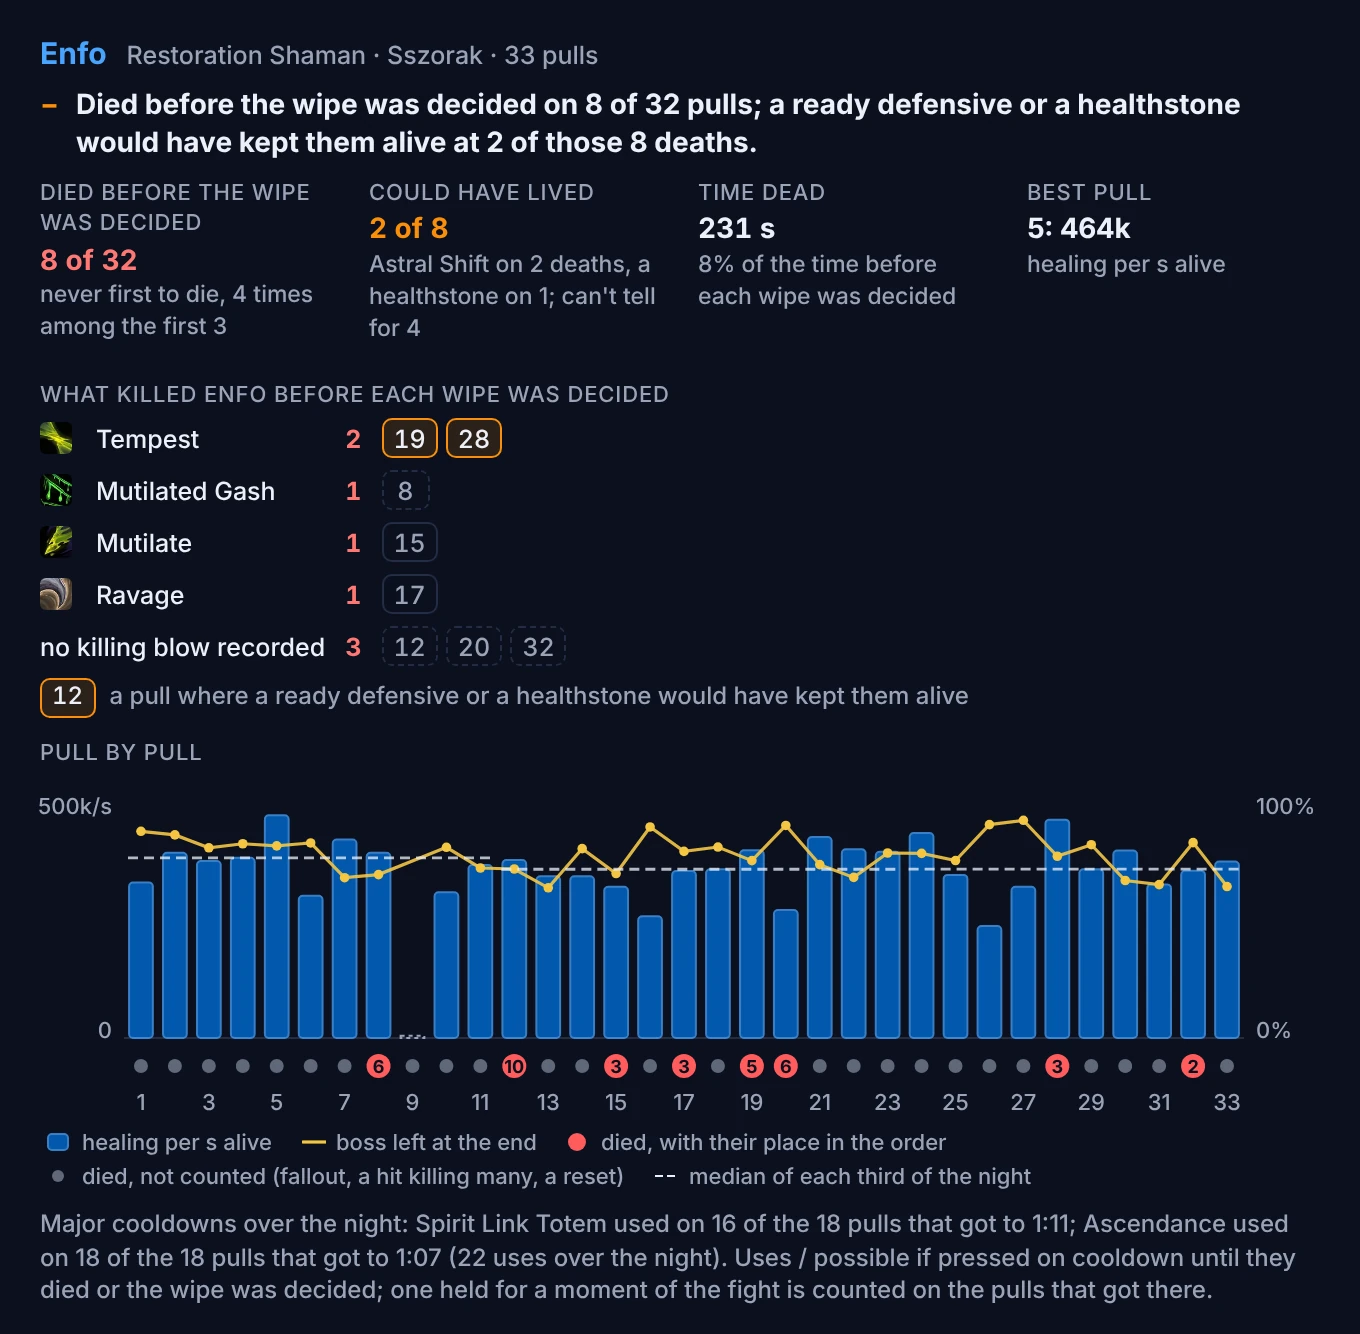
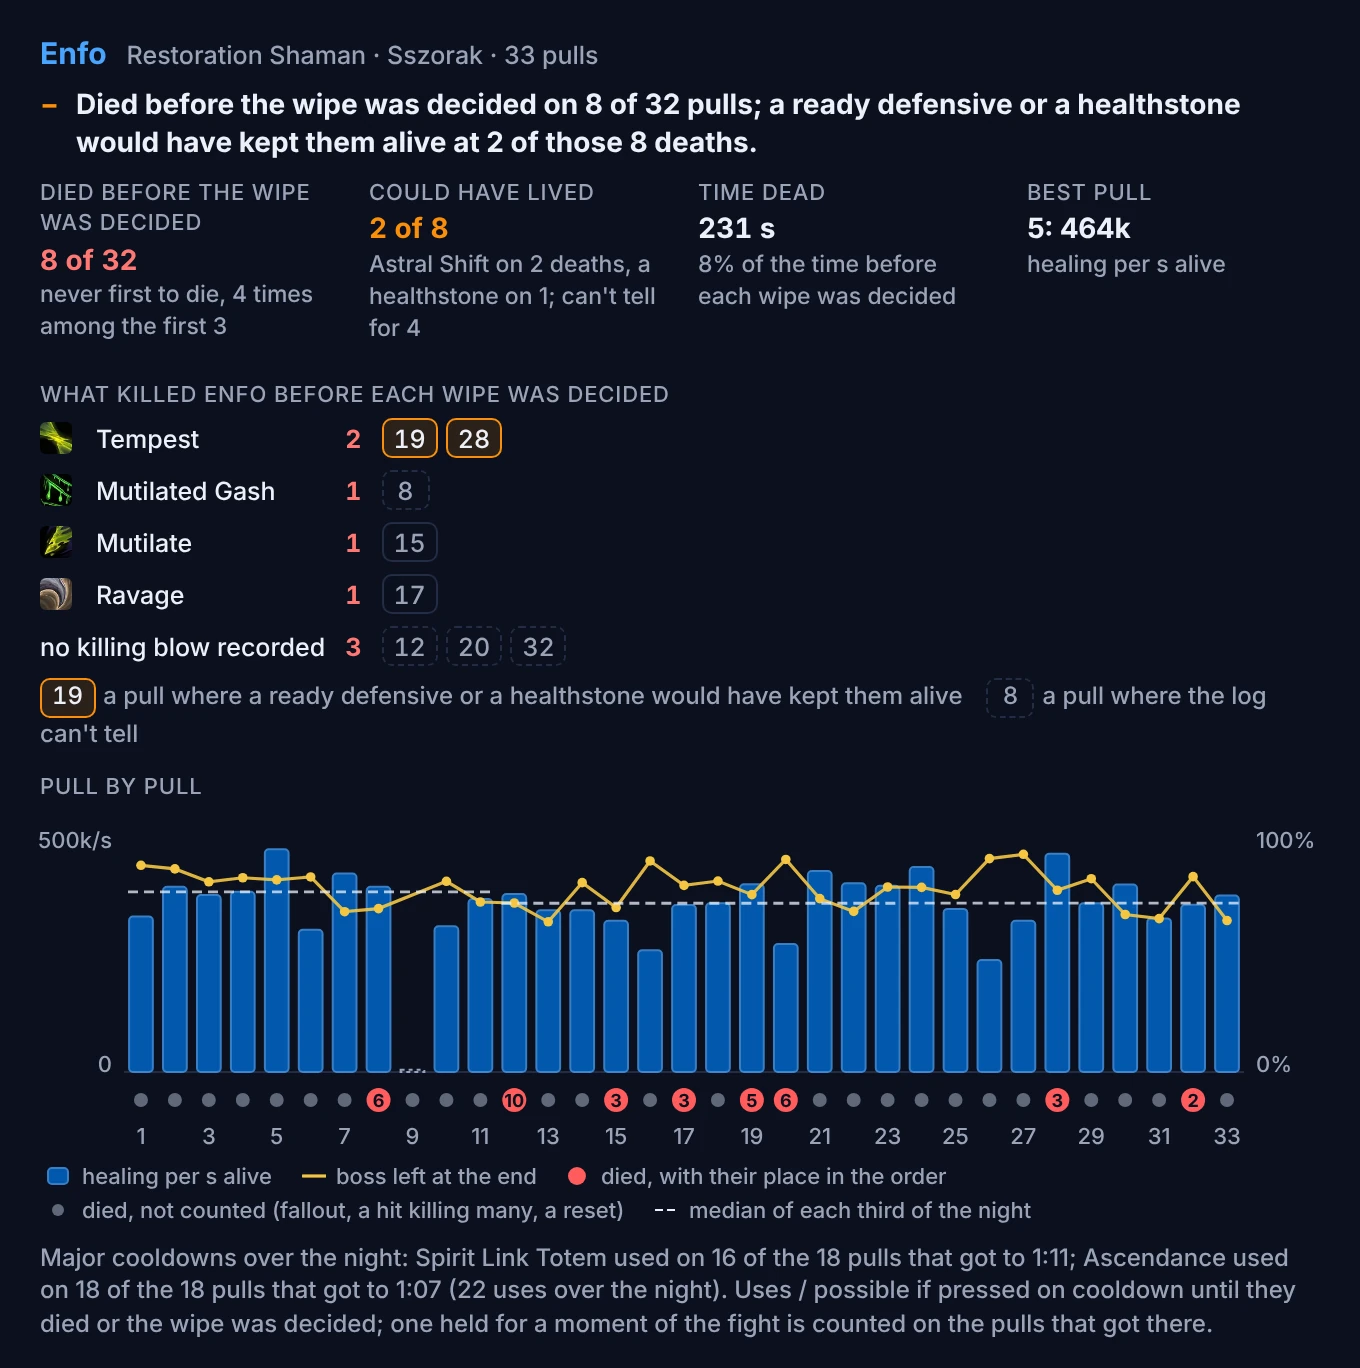
fix(agent): a player's night card reads each death as the answer does, and its key shows the night's own pulls
The card decided for itself whether something ready would have saved a replayed death, so one the answer
can't tell for (an immunity sure for a moment only) was drawn as one nothing would have stopped. Each chip now
takes player_night's own reading (coaching.night_lived), with why it can't tell in its tooltip. The key under
the chips showed a made-up "12" in the saved colour on every night: it now shows the first pull that is one,
of each kind the night has.

diff --git a/src/wipebot/core/app/night.js b/src/wipebot/core/app/night.js
@@ -31,26 +31,36 @@ views.player_night = (() => {
   }
 
   const KILLERS_SHOWN = 5;
-  // What killed them before each wipe was decided, the most deaths first: a chip per pull, in the colour of what to
-  // do differently where a ready defensive or a healthstone would have kept them alive (the defensives tool's
-  // replay), dashed where it can't tell
+  // What killed them before each wipe was decided, the most deaths first: a chip per pull, as player_night's text
+  // reads that death (x.saved, views.player_night_view): in the colour of what to do differently where a ready
+  // defensive or a healthstone would have kept them alive, plain where nothing ready would have, dashed where the
+  // log can't tell (x.why: not replayed, or a ready spell's effect can't be told)
+  const LIVED = "a ready defensive or a healthstone would have kept them alive";
   function killers() {
     if (!D.killers.length) return "";
     const shown = D.killers.slice(0, KILLERS_SHOWN), rest = D.killers.slice(KILLERS_SHOWN);
     const chip = (k, x) => {
       const cls = x.saved === true ? "fix" : x.outright ? "outright" : x.saved === false ? "" : "unknown";
-      const how = x.saved === true ? "a ready defensive or a healthstone would have kept them alive"
+      const how = x.saved === true ? LIVED
         : x.outright ? "killed outright: no hit logged after high health, so nothing ready would have stopped it"
-        : x.saved === false ? "nothing ready would have kept them alive" : "can't tell: no overkill or health logged";
+        : x.saved === false ? "nothing ready would have kept them alive" : `can't tell${x.why ? `: ${x.why}` : ""}`;
       return `<button class="chip ${cls}" data-pull-chip="${x.pull}"${kit.tip(`Pull ${x.pull}: died ${kit.clock(x.ms)} (#${x.place})${to(k)}; ${how}`)}>${x.pull}</button>`;
     };
     const rows = shown.map((k) => `<li><span class="kn">${kit.iconImg(D.img_base, k.icon)}${kit.esc(k.by)}</span>`
       + `<span class="kc">${k.pulls.length}</span><span class="chips">${k.pulls.map((x) => chip(k, x)).join("")}</span></li>`).join("");
     const more = rest.length ? `<div class="note">and ${rest.length} other abilit${rest.length === 1 ? "y" : "ies"}, `
       + `${kit.plural(rest.reduce((n, k) => n + k.pulls.length, 0), "death")}</div>` : "";
+    // The key: each of the two marked kinds of chip the rows drawn have, on the first pull that is one, so the
+    // sample is never a pull of another kind and no kind is named that the night lacks
+    const drawn = shown.flatMap((k) => k.pulls).sort((a, b) => a.pull - b.pull);
+    const sample = (is, cls, words) => {
+      const x = drawn.find(is);
+      return x ? `<span class="key"><span class="chip ${cls} sample">${x.pull}</span>${words}</span>` : "";
+    };
+    const key = sample((x) => x.saved === true, "fix", `a pull where ${LIVED}`)
+      + sample((x) => x.saved == null, "unknown", "a pull where the log can't tell");
     return `<div class="section-title">What killed ${kit.esc(D.player.name)} before each wipe was decided</div>`
-      + `<ul class="killers">${rows}</ul>${more}`
-      + `<div class="note"><span class="chip fix sample">12</span> a pull where a ready defensive or a healthstone would have kept them alive</div>`;
+      + `<ul class="killers">${rows}</ul>${more}` + (key ? `<div class="note keys">${key}</div>` : "");
   }
 
   // Their cooldowns over the night, each as player_night's text counts it: uses of possible uses, or, for one held

diff --git a/src/wipebot/core/app/page.css b/src/wipebot/core/app/page.css
@@ -154,6 +154,7 @@ svg text:is(.to, .tg, .over) { paint-order: stroke; stroke: var(--bg); stroke-wi
 .chip.unknown { border-style: dashed; }
 .chip.outright { text-decoration: line-through; }
 .chip.sample { display: inline-block; text-align: center; cursor: default; margin-right: 4px; }
+.note.keys .key + .key { margin-left: 12px; }
 [data-panel] + [data-panel] { margin-top: 10px; }
 .ranked { list-style: none; margin: 0 2px 8px; padding: 0; display: grid; grid-template-columns: minmax(0, max-content) minmax(60px, 1fr) auto; gap: 4px 10px; align-items: center; font-size: 12.5px; }
 .ranked li { display: contents; }

diff --git a/tests/core/test_views.py b/tests/core/test_views.py
@@ -1538,7 +1538,7 @@ async def test_every_text_a_view_draws_reads_against_what_is_behind_it(recorded,
     2.2:1 on a light panel, and a pull's chip a number at 70% or on a tint its colour did not read on."""
     from wipebot.core import viewhost
     night = made_up_night()  # a chip of each kind: would have lived, nothing ready, can't tell, killed outright
-    night["killers"][0]["pulls"] += [{"pull": 5, "ms": 150000, "place": 9, "saved": None},
+    night["killers"][0]["pulls"] += [{"pull": 5, "ms": 150000, "place": 9, "saved": None, "why": views.NOT_REPLAYED},
                                      {"pull": 6, "ms": 180000, "place": 2, "saved": False, "outright": True}]
     key = {"report": night["report"], "boss": night["boss"], "player": "Mirelle"}
     seen: dict[str, list[dict]] = {}
@@ -1562,7 +1562,7 @@ async def test_every_text_a_view_draws_reads_against_what_is_behind_it(recorded,
     assert low == []
     # and it looked at what it says: a chip of each kind, and how many died at once written in three marks
     assert {t["cls"] for t in seen["player_night"] if t["cls"].startswith("chip")} == {
-        "chip", "chip fix", "chip unknown", "chip outright", "chip fix sample"}
+        "chip", "chip fix", "chip unknown", "chip outright", "chip fix sample", "chip unknown sample"}
     assert sum(t["cls"] == "tb" for t in seen["pull_summary"]) == 3
 
 
@@ -2383,7 +2383,8 @@ async def test_a_night_says_a_death_with_no_killing_blow_as_the_log_does(monkeyp
     night["killers"] = [{"by": "Slag Wave", "icon": "spells/1.jpg",
                          "pulls": [{"pull": 2, "ms": 60000, "place": 1, "saved": True}]},
                         {"by": "no killing blow recorded", "no_blow": True, "icon": None,
-                         "pulls": [{"pull": 4, "ms": 120000, "place": 4, "saved": None}]}]
+                         "pulls": [{"pull": 4, "ms": 120000, "place": 4, "saved": None,
+                                    "why": views.NOT_REPLAYED}]}]
     from wipebot.core import viewhost
     made_up_view(monkeypatch, {"view": "player_night", "report": night["report"], "player": "Mirelle"}, night)
     async with drawn("player_night", {}, mode="fullscreen", width=viewhost.FULL_WIDTH) as (view, errors):
@@ -2392,9 +2393,75 @@ async def test_a_night_says_a_death_with_no_killing_blow_as_the_log_does(monkeyp
         bars = [await tip(f'[data-pull-col="{n}"]') for n in (2, 4)]
     assert not errors
     assert chips[0].startswith("Pull 2: died 1:00 (#1) to Slag Wave; ")
-    assert chips[1].startswith("Pull 4: died 2:00 (#4), no killing blow recorded; can't tell")
+    assert chips[1] == f"Pull 4: died 2:00 (#4), no killing blow recorded; can't tell: {views.NOT_REPLAYED}"
     assert bars[0].split("\n")[1:3] == ["280k/s alive, rank 2 of 4 healers by total", "died 1:00 (#1) to Slag Wave"]
     assert "died 2:00 (#4), no killing blow recorded" in bars[1].split("\n")
+
+
+async def test_a_nights_death_is_read_on_its_card_as_player_nights_text_reads_it(rep, monkeypatch):
+    """Whether something ready would have kept them alive is one reading (deaths.lived, through coaching.night_lived)
+    with three answers. The card had its own with two for a death that was replayed: one whose only ready spell
+    "would have only if it held ... so can't be sure" was drawn as a death nothing ready would have stopped, beside
+    a text that says it can't tell. Four of Draiman's deaths on the tests' night, with made-up replays."""
+    from wipebot.core.report import coaching, deaths
+    stone = deaths.Pressed("a healthstone", deaths.SAVED, True, "if they had one; none used this pull")
+    short_of = deaths.Pressed("Barkskin", deaths.NOT_ENOUGH, False)
+    unsure = deaths.Pressed("Cloak of Shadows", f"{deaths.SAVED} only if it held for all 5 s, so can't be sure", None)
+    replays = [deaths.Replay("If pressed:", rows) for rows in ((unsure, stone), (short_of,), (unsure, short_of))]
+    p = rep.player("Draiman")
+    pulls, *_ = await coaching.night_pulls(rep, p, rep.by_boss["Sszorak"])
+    died = [(x, x.death[1]) for x in pulls if x.counted and x.death]
+    made = [deaths.Replayed(x.f, d, more, False)
+            for (x, d), more in zip(died[:4], [*replays, deaths.Replay()], strict=True)]
+    made.append(deaths.Replayed(died[4][0].f, died[4][1], deaths.Replay(), True))  # one that killed outright
+
+    async def replay_deaths(*_):
+        return made
+    monkeypatch.setattr(views, "replay_deaths", replay_deaths)
+    data = await views.player_night_view(rep, "Sszorak", "Draiman")
+    chips = {x["pull"]: x for k in data["killers"] for x in k["pulls"]}
+    would, wouldnt, cant, unlogged, outright = (chips[rep.pull_no(x.f)] for x, _ in died[:5])
+    assert (would["saved"], wouldnt["saved"], outright["saved"]) == (True, False, False)
+    assert "why" not in would and "why" not in wouldnt and outright["outright"] and not wouldnt["outright"]
+    assert cant["saved"] is None and cant["why"] == deaths.UNTOLD  # was False: "nothing ready would have"
+    assert unlogged["saved"] is None and unlogged["why"] == views.NOT_REPLAYED
+    # and the counts over them are the text's own line
+    lived, text = data["lived"], coaching._night_lived(rep, pulls, made)
+    assert text and f"alive at {lived['saved']} of the {lived['of']} deaths that count" in text
+    assert f"; can't tell at {lived['unknown']} ({views.NOT_REPLAYED} at {lived['unknown'] - 1}, " in text
+    assert text.endswith(f"{deaths.UNTOLD} at 1).") and lived["by"] == [("a healthstone", 1)]
+    assert [lived["saved"], lived["outright"], lived["of"]] == [1, 1, len(died)]
+
+
+KEYS = """() => [...document.querySelectorAll(".note.keys .key")].map((k) =>
+    [k.querySelector(".chip").textContent, k.querySelector(".chip").className, k.textContent])"""
+
+
+async def test_the_night_cards_key_shows_a_pull_that_is_one_and_names_no_kind_the_night_lacks(monkeypatch):
+    """The key under the chips once showed a chip "12" in the colour of a death a defensive would have stopped,
+    whatever the night: on the recorded night pull 12 is a death the text can't tell for, and the key was drawn on
+    a night with no such death at all. Its sample is the first pull that is one, of each kind the rows have."""
+    def night_with(*chips: tuple[int, bool | None]) -> dict:
+        night = made_up_night()
+        night["killers"] = [{"by": "Slag Wave", "icon": "spells/1.jpg", "pulls": [
+            {"pull": n, "ms": 60000, "place": 1, "saved": saved}
+            | ({"why": views.NOT_REPLAYED} if saved is None else {}) for n, saved in chips]}]
+        made_up_view(monkeypatch, {"view": "player_night", "report": night["report"], "player": "Mirelle"}, night)
+        return night
+
+    lived, cant = "a pull where a ready defensive or a healthstone would have kept them alive", "the log can't tell"
+    night_with((2, False), (4, None), (5, True), (6, True), (7, None))
+    async with drawn("player_night", {}) as (view, errors):
+        assert await view.evaluate(KEYS) == [["5", "chip fix sample", f"5{lived}"],
+                                             ["4", "chip unknown sample", f"4a pull where {cant}"]]
+        tip = await view.locator('[data-pull-chip="4"]').get_attribute("data-tip")
+        assert tip.endswith(f"; can't tell: {views.NOT_REPLAYED}") and not errors
+    night_with((2, False), (4, None))  # no death a defensive would have stopped: that kind is not in the key
+    async with drawn("player_night", {}) as (view, errors):
+        assert await view.evaluate(KEYS) == [["4", "chip unknown sample", f"4a pull where {cant}"]] and not errors
+    night_with((2, False), (4, False))  # neither kind: no key
+    async with drawn("player_night", {}) as (view, errors):
+        assert await view.evaluate(KEYS) == [] and await view.locator(".note.keys").count() == 0 and not errors
 
 
 async def test_a_result_for_the_mock_host_leaves_the_in_process_tools_as_they_were(monkeypatch):

diff --git a/src/wipebot/core/report/views.py b/src/wipebot/core/report/views.py
@@ -45,6 +45,7 @@ from .coaching import (
     dead_spans,
     death_note,
     night_cooldowns,
+    night_lived,
     night_pulls,
     night_trend,
     resource_use,
@@ -56,6 +57,7 @@ from .deaths import (
     CASCADE_MS,
     RECAP_WINDOW_MS,
     SAVED,
+    UNTOLD,
     Replay,
     Standing,
     defensive_state,
@@ -384,12 +386,18 @@ async def _against_top(rep: Report, f: dict, p, ids: dict[str, int]) -> dict | s
                       round(statistics.median([sum(v or 0 for v in x.cpm.values()) for x in c.found]))]}
 
 
+# Why a death that counts has no answer where it wasn't replayed, in player_night's and defensives' words (one that
+# was replayed and still has none: deaths.UNTOLD)
+NOT_REPLAYED = "no overkill or health logged"
+
+
 async def player_night_view(rep: Report, boss: str, player: str) -> dict:
     """One player across every pull on a boss, as player_night states it: per pull their output per second alive and
     rank in their role, their first death (its place among the pull's deaths, and whether it came after the wipe
     was decided) and their major cooldowns in the words of the pull's row; over the night, the deaths that counted,
-    time dead, their best pull, and each cooldown as its text counts it: uses of possible uses, or, for one held for
-    a moment of the fight, the pulls that got there and on how many it was used. No total over the cooldowns: the
+    each with whether something ready would have kept them alive as the text reads it (coaching.night_lived), time
+    dead, their best pull, and each cooldown as its text counts it: uses of possible uses, or, for one held for a
+    moment of the fight, the pulls that got there and on how many it was used. No total over the cooldowns: the
     text states none."""
     p = rep.player(player)
     fights = [f for f in rep.pulls_with(p, rep.by_boss[boss]) if not f.get("inProgress")]
@@ -421,21 +429,19 @@ async def player_night_view(rep: Report, boss: str, player: str) -> dict:
         })
     counted = [r for r in rows if r["death"] and not r["reset"] and not r["death"]["fallout"]
                and not r["death"]["mass"]]  # as NightPull.counted: a reset is no pull of the night's
-    # each death before its wipe was decided, replayed with what was ready (the defensives tool's replay): True when a
-    # ready defensive or a healthstone would have kept them alive, False when nothing ready would have, None can't tell
-    # (the deaths the card counts: their first in each pull, a later one after a battle res left out, as above)
-    replays = {(rep.pull_no(r.f), round(r.d["timestamp"] - r.f["startTime"])): r for r in replayed}
+    # each death that counts, replayed with what was ready, in the one reading player_night's text gives of it
+    # (coaching.night_lived, deaths.lived): True when a ready defensive or a healthstone would have kept them alive,
+    # False when nothing ready would have, None when the log can't tell, with why in the text's words
+    outright = {(rep.pull_no(r.f), r.d["timestamp"]) for r in replayed if r.outright}
     saved_by: Counter = Counter()
     killers: dict[str, dict[str, Any]] = {}
-    for r in counted:
-        replay = replays.get((r["pull"], r["death"]["ms"]))
-        more = replay.more if replay else Replay()
-        saved_by.update(savers(more))
+    for r, (no, d, more, ok, done) in zip(counted, night_lived(rep, pulls, replayed), strict=True):
+        saved_by.update(more)
         k = killers.setdefault(r["death"]["by"], {"by": r["death"]["by"], "no_blow": r["death"]["no_blow"],
                                                   "icon": r["death"]["icon"], "pulls": []})
-        k["pulls"].append({"pull": r["pull"], "ms": r["death"]["ms"], "place": r["death"]["place"],
-                           "saved": bool(savers(more)) if more else False if replay and replay.outright else None,
-                           "outright": bool(replay and replay.outright)})
+        k["pulls"].append({"pull": no, "ms": r["death"]["ms"], "place": r["death"]["place"], "saved": ok,
+                           "outright": (no, d["timestamp"]) in outright}
+                          | ({"why": UNTOLD if done else NOT_REPLAYED} if ok is None else {}))
     judged = [x["saved"] for k in killers.values() for x in k["pulls"]]
     dead_s, counted_s = (sum(x.dead_s for x in pulls if not x.reset),  # unrounded and without resets, as the text
                          sum(x.counted_s for x in pulls if not x.reset))

diff --git a/CHANGELOG.md b/CHANGELOG.md
@@ -135,7 +135,9 @@ The format is based on [Keep a Changelog](https://keepachangelog.com/en/1.1.0/).
 - `Agent` **An ability's damage and a player's casts are the same number wherever you ask.** An ability logged under several ids was one row in a damage breakdown and several in a comparison of two pulls and in a player's damage taken, so the same pull gave two totals for it. A player's casts counted every cast event, so a Rogue's Mutilate counted once per hand and a Holy Paladin's procs as casts: about twice the casts per minute the comparison with top players showed for the same pull. Both now read Warcraft Logs' tables one way.
 - `Agent` **A phase has one number everywhere.** A wipe "in P3" listed its phases as "P3 Intermission → P4 Stage Three" two lines further down, so P3 meant the intermission or the third stage depending on the line. Phases are now counted the way raiders count them wherever one is named: stages P1, P2, P3 and intermissions I1, I2.
 - `Agent` **A player's night counts deaths as the other tools do.** A player's night said "nor 8 deaths in a hit killing many" where the replay of their deaths said 9 for the same night: it counted a pull once, and they had died twice on one. Both now read one count. "First death 5 times" stood against the six pulls the night's list names them first on, one of them a hit that killed four at once: their night now says "first death on 5 pulls (6 counting 1 in a hit killing many)".
-- `Agent` **"A defensive would have saved them" means the same in every count.** A death's recap says of an immunity such as Cloak of Shadows that it would have kept them alive "only if it held for all 5 s", which the log can't confirm, and so names nothing as sure to have. The night's defensives and a player's night counted that same death as one a defensive would have saved. They now read the recap's verdict: such a death, and one where a ready spell's tooltip gives no amount, is counted under "can't tell", with the reason beside the count.
+- `Agent` **"A defensive would have saved them" means the same in every count.** A death's recap says of an immunity such as Cloak of Shadows that it would have kept them alive "only if it held for all 5 s", which the log can't confirm, and so names nothing as sure to have. The night's defensives and a player's night counted that same death as one a defensive would have saved. They now read the recap's verdict: such a death, and one where a ready spell's tooltip gives no amount, is counted under "can't tell", with the reason beside the count. A player's night card draws each death's chip by the same reading, dashed where the log can't tell, and the key under the chips shows pulls of that night: it showed a "12" in the colour of a death a defensive would have stopped, whatever the night.
+
+  ![Enfo's night on Sszorak as a card: what killed them with a chip per pull, pulls 19 and 28 in the colour of a death a ready defensive or a healthstone would have stopped, pulls 8, 12, 20 and 32 dashed, and under them the key: chip 19 for "a pull where a ready defensive or a healthstone would have kept them alive" and a dashed 8 for "a pull where the log can't tell"](https://raw.githubusercontent.com/Enf0/wipebot/main/docs/images/night-card-cant-tell.webp)
 - `Agent` **A pull didn't "get past" an enrage it ran into.** A wipe's summary said the pull got past what ended most earlier pulls, the boss gaining its enrage, on pulls where the boss gained it too: after the wipe was already decided, or seconds after a phase began, where it isn't read as what ended the pull. The summary now says it came on this pull too, and when, where no line above gives the time. The same goes for a hit killing many that came behind another.
 - `Agent` **Who kept a debuff to the end is named.** Asked where a debuff ran out on players, the answer gave one that a single cast puts on the raid and players clear one by one as a single row at the middle player's time, "2:42: on 18", for ends from 2:36 to 3:01. The row now gives the span and each time's players ("2:36-3:01: ran out on 18: 2:36 ... · 3:01 ..."), so the six who still had it at 3:01 stand apart. A pull's timeline also names everyone a debuff reached its highest stack on in the same moment, where it named only the first in the log.
 - `Agent` **A spell isn't "never cast" when there was no time to cast it.** Against top players of their spec, someone who died early was told they never cast spells the top players press less than once in that time: a rogue alive for 53 s "never cast" Sprint, which top rogues press 0.7 times a minute. Such a spell now reads "not due: under one cast in their time alive at the top's median", and only one the top players would have pressed in that time is still "never cast". A damage cooldown is one of those however short the life: the top players press it from the pull.
